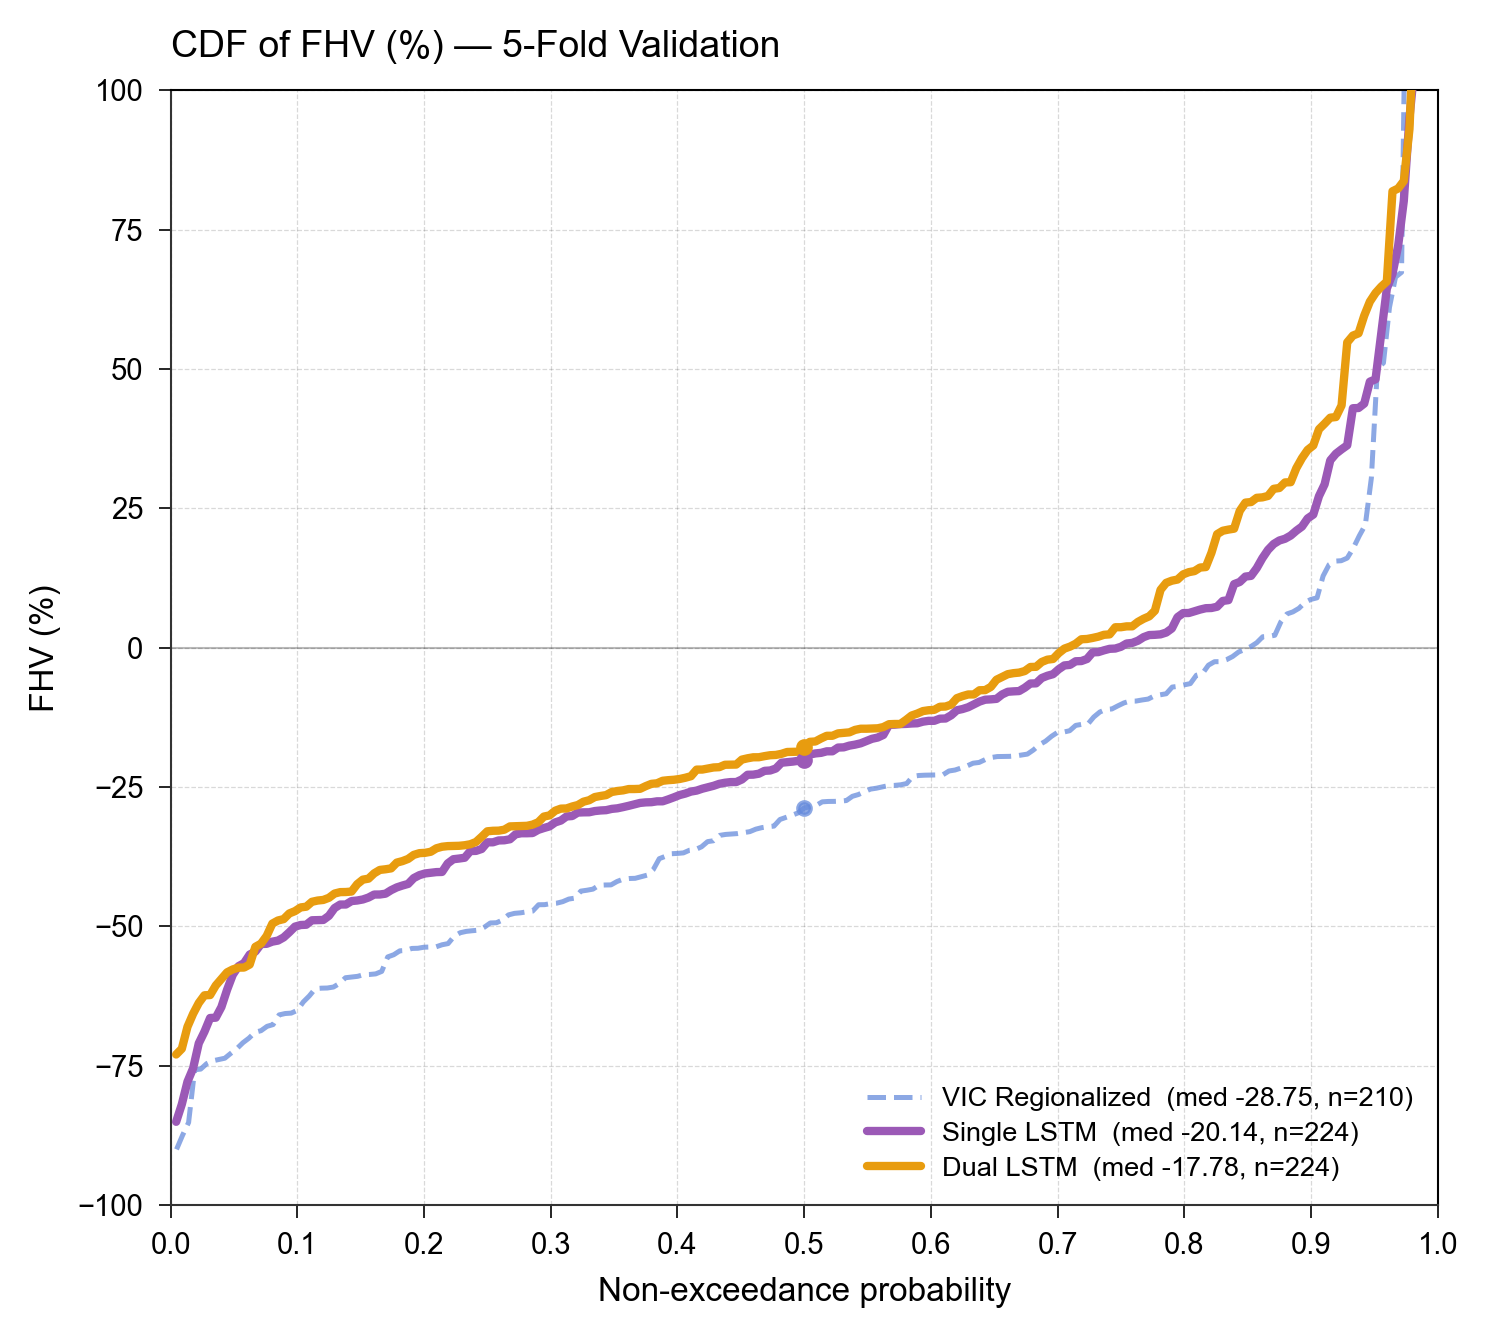
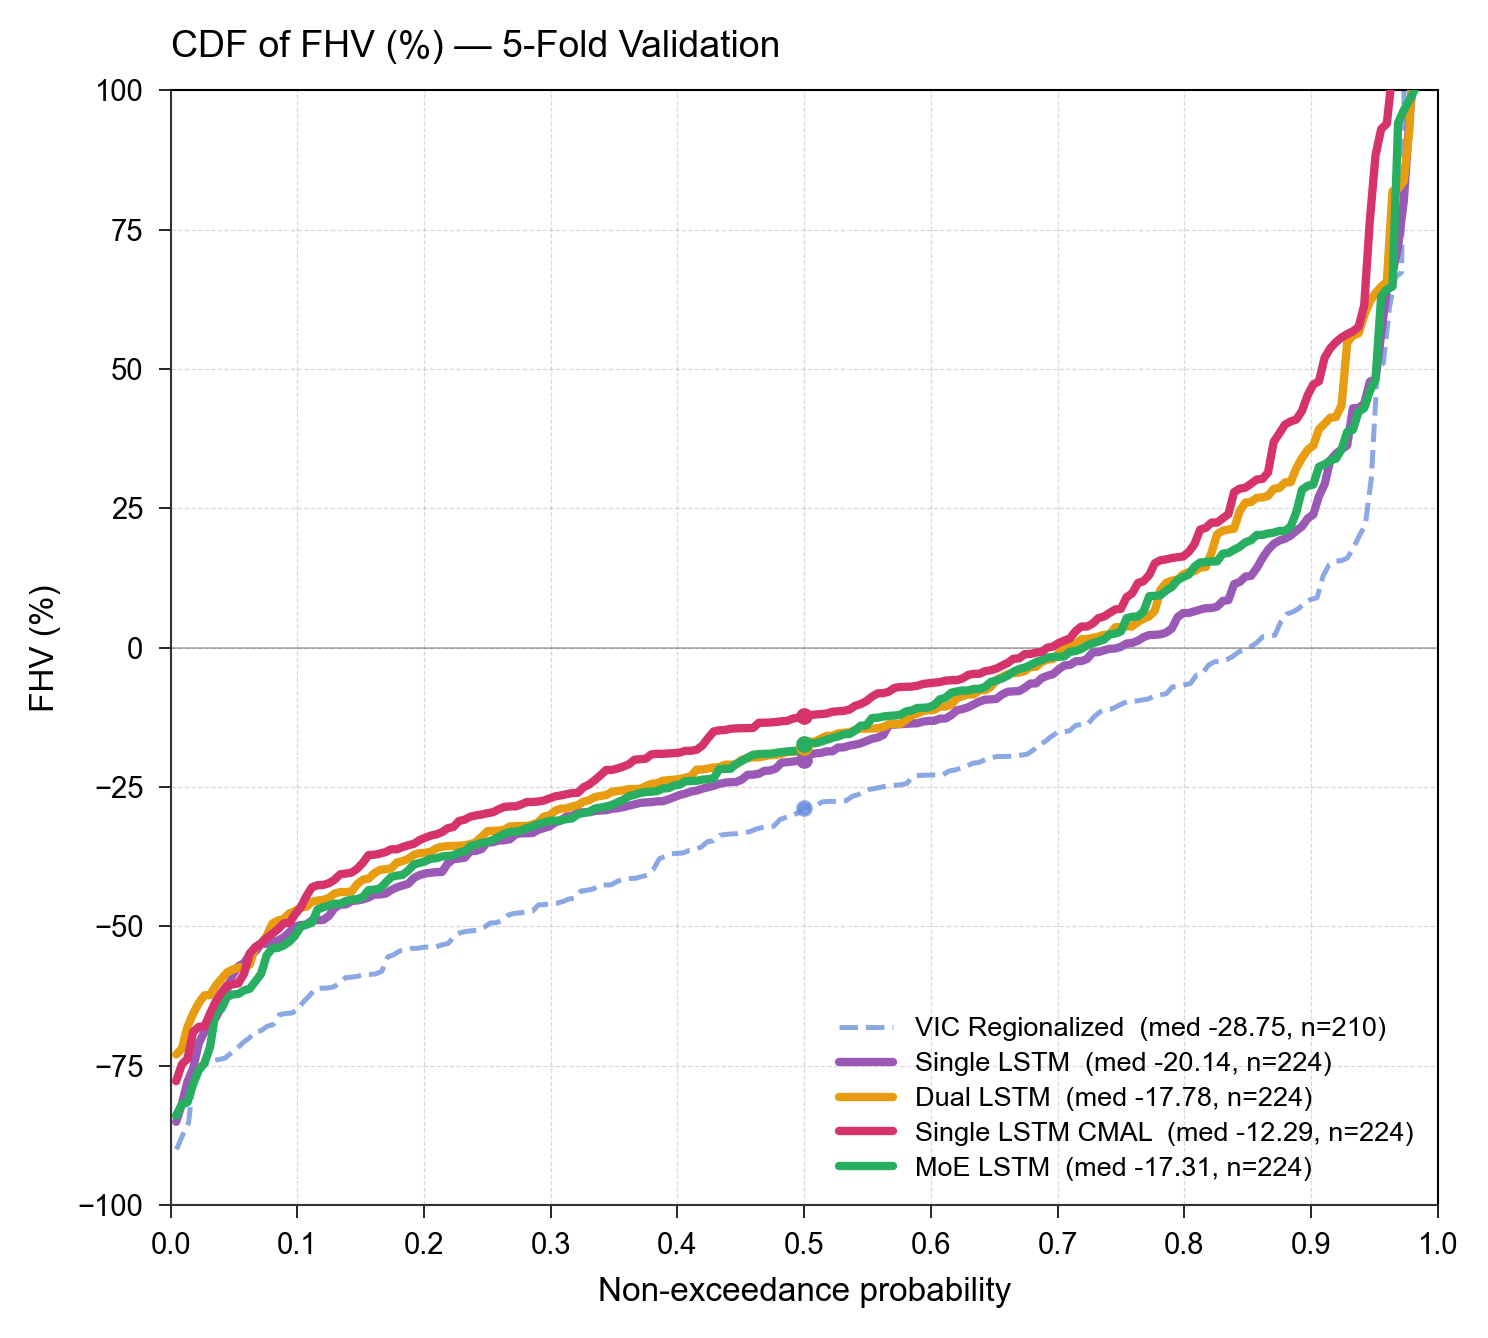
Add single_lstm_cmal and moe_lstm eval metrics, distinct comparison colors
Runs post_process.py --eval for the CMAL and MoE runs and refreshes the
CDF/barplot comparison figures across all four LSTM variants.

Single LSTM CMAL previously inherited the "Single LSTM" purple style and
label via substring matching in src/eval/plots.py (the "single" key
matched "single_lstm_cmal" too). Give it its own crimson color and
"Single LSTM CMAL" label, and add a green style/label for MoE LSTM,
matched ahead of the generic "single"/"dual" keys.

diff --git a/src/eval/plots.py b/src/eval/plots.py
@@ -28,6 +28,8 @@ class _Style:
 # LSTM models are hero lines (thick, saturated); VIC recedes (thin, dashed).
 _STYLES: dict[str, _Style] = {
     "dual":             _Style("#e89c0f", 2.0, "-",  1.0, 4, "Dual LSTM"),
+    "single_lstm_cmal": _Style("#d6336c", 2.0, "-",  1.0, 5, "Single LSTM CMAL"),
+    "moe":              _Style("#27ae60", 2.0, "-",  1.0, 4, "MoE LSTM"),
     "single":           _Style("#9b59b6", 2.0, "-",  1.0, 3, "Single LSTM"),
     "VIC Simulated":    _Style("#668bdc", 1.2, "--", 0.75, 2, "VIC Regionalized"),
     "VIC Regionalized": _Style("#668bdc", 1.2, "--", 0.55, 1, "VIC Regionalized"),
@@ -172,9 +174,11 @@ def plot_metric_cdf(
 
 # Bar colours keyed by substring in model labels
 _BAR_COLORS: dict[str, str] = {
-    "VIC":    "#668bdc",
-    "single": "#9b59b6",
-    "dual":   "#e89c0f",
+    "VIC":              "#668bdc",
+    "single_lstm_cmal": "#d6336c",
+    "moe":              "#27ae60",
+    "single":           "#9b59b6",
+    "dual":             "#e89c0f",
 }
 
 _BAR_FALLBACK = "#3b3b3d"
@@ -233,8 +237,10 @@ def plot_metric_barplot(
     # Display name mapping for xtick labels
     _DISPLAY_NAMES: dict[str, str] = {
         "VIC":              "VIC",
-        "single_lstm": "Single LSTM",
-        "dual_lstm":   "Dual LSTM",
+        "single_lstm_cmal": "Single LSTM CMAL",
+        "single_lstm":      "Single LSTM",
+        "dual_lstm":        "Dual LSTM",
+        "moe_lstm":         "MoE LSTM",
     }
     tick_labels = [_DISPLAY_NAMES.get(l, l) for l in labels]
 
